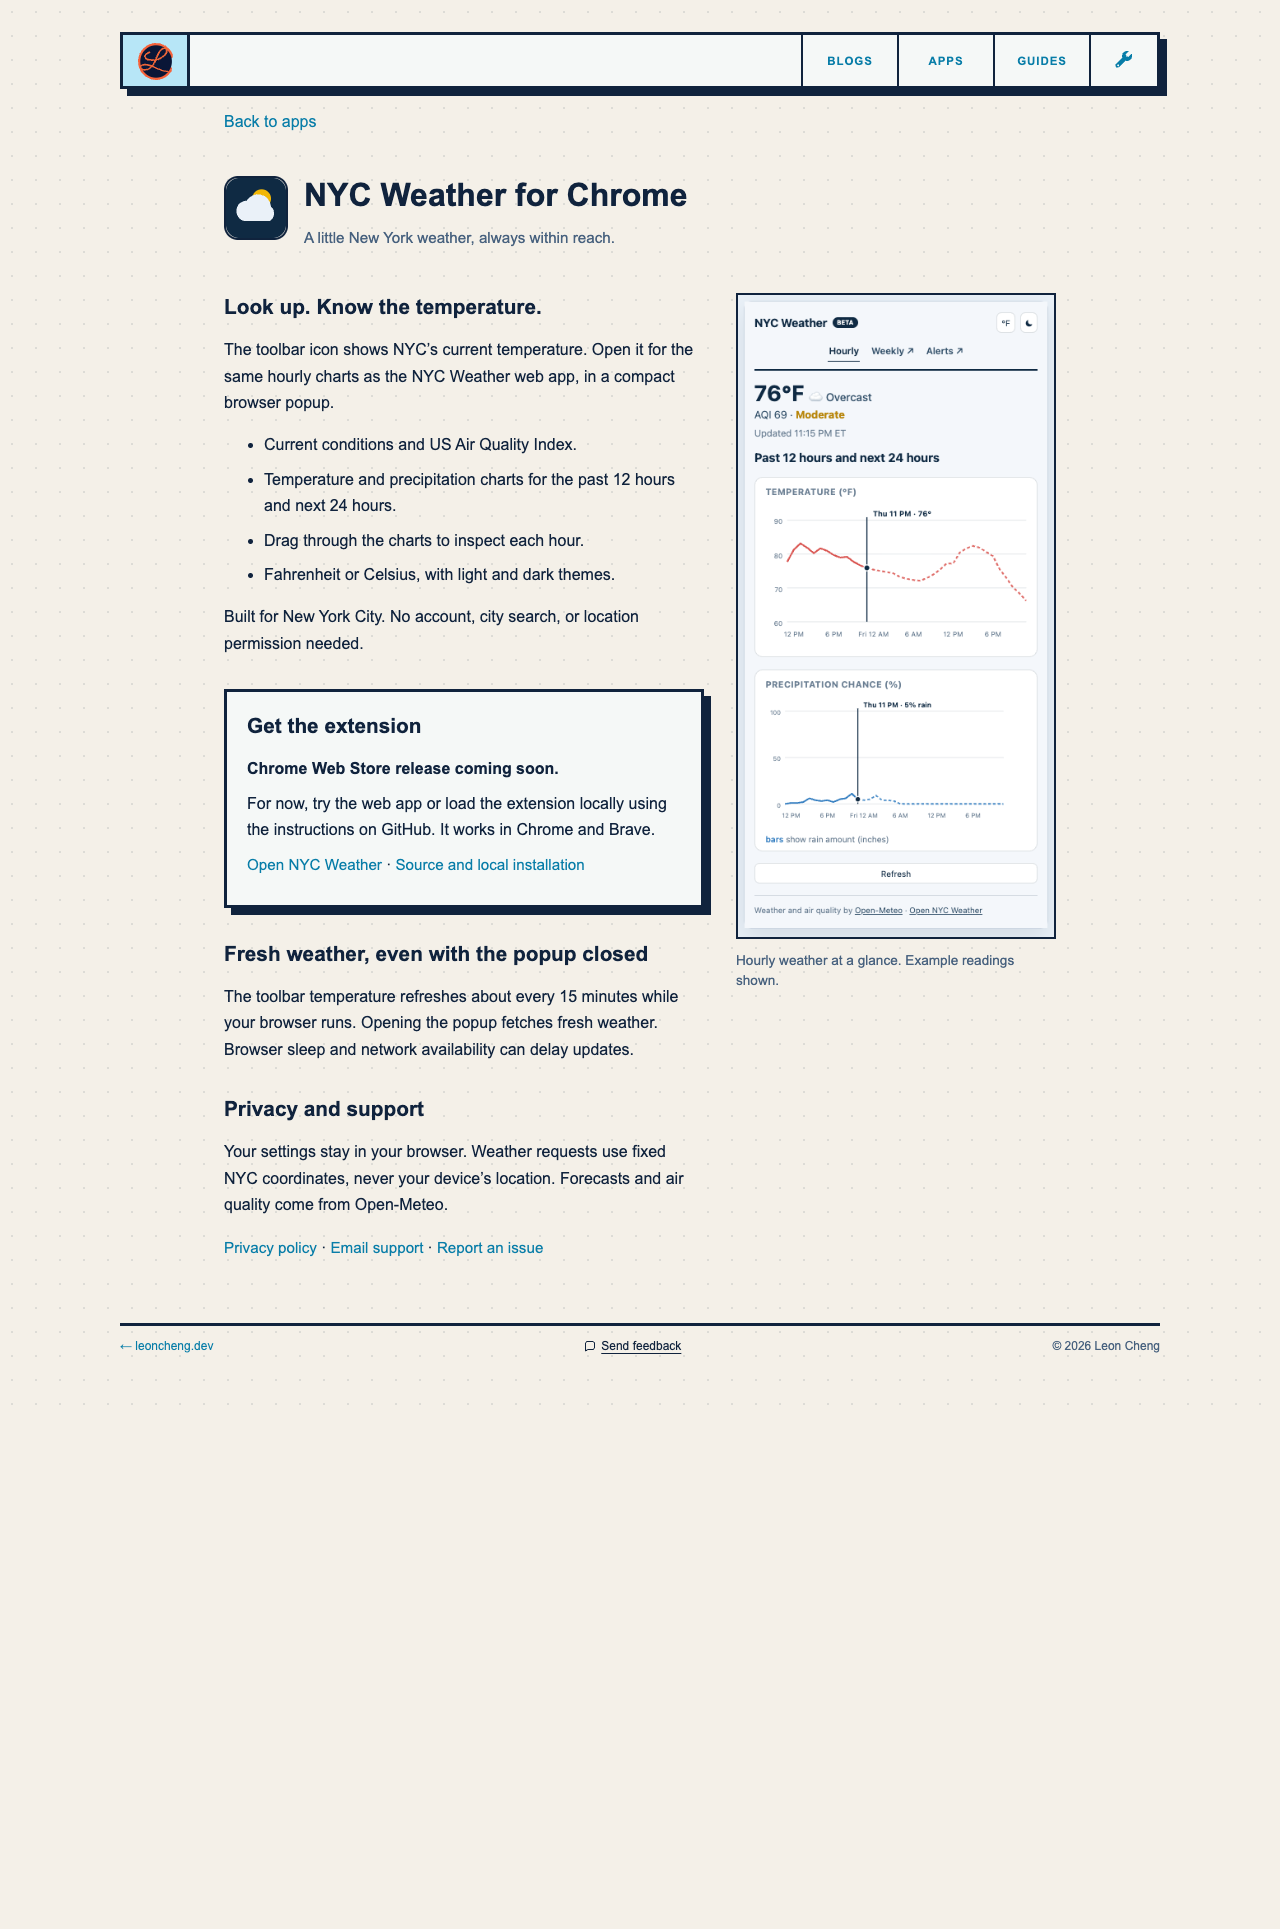
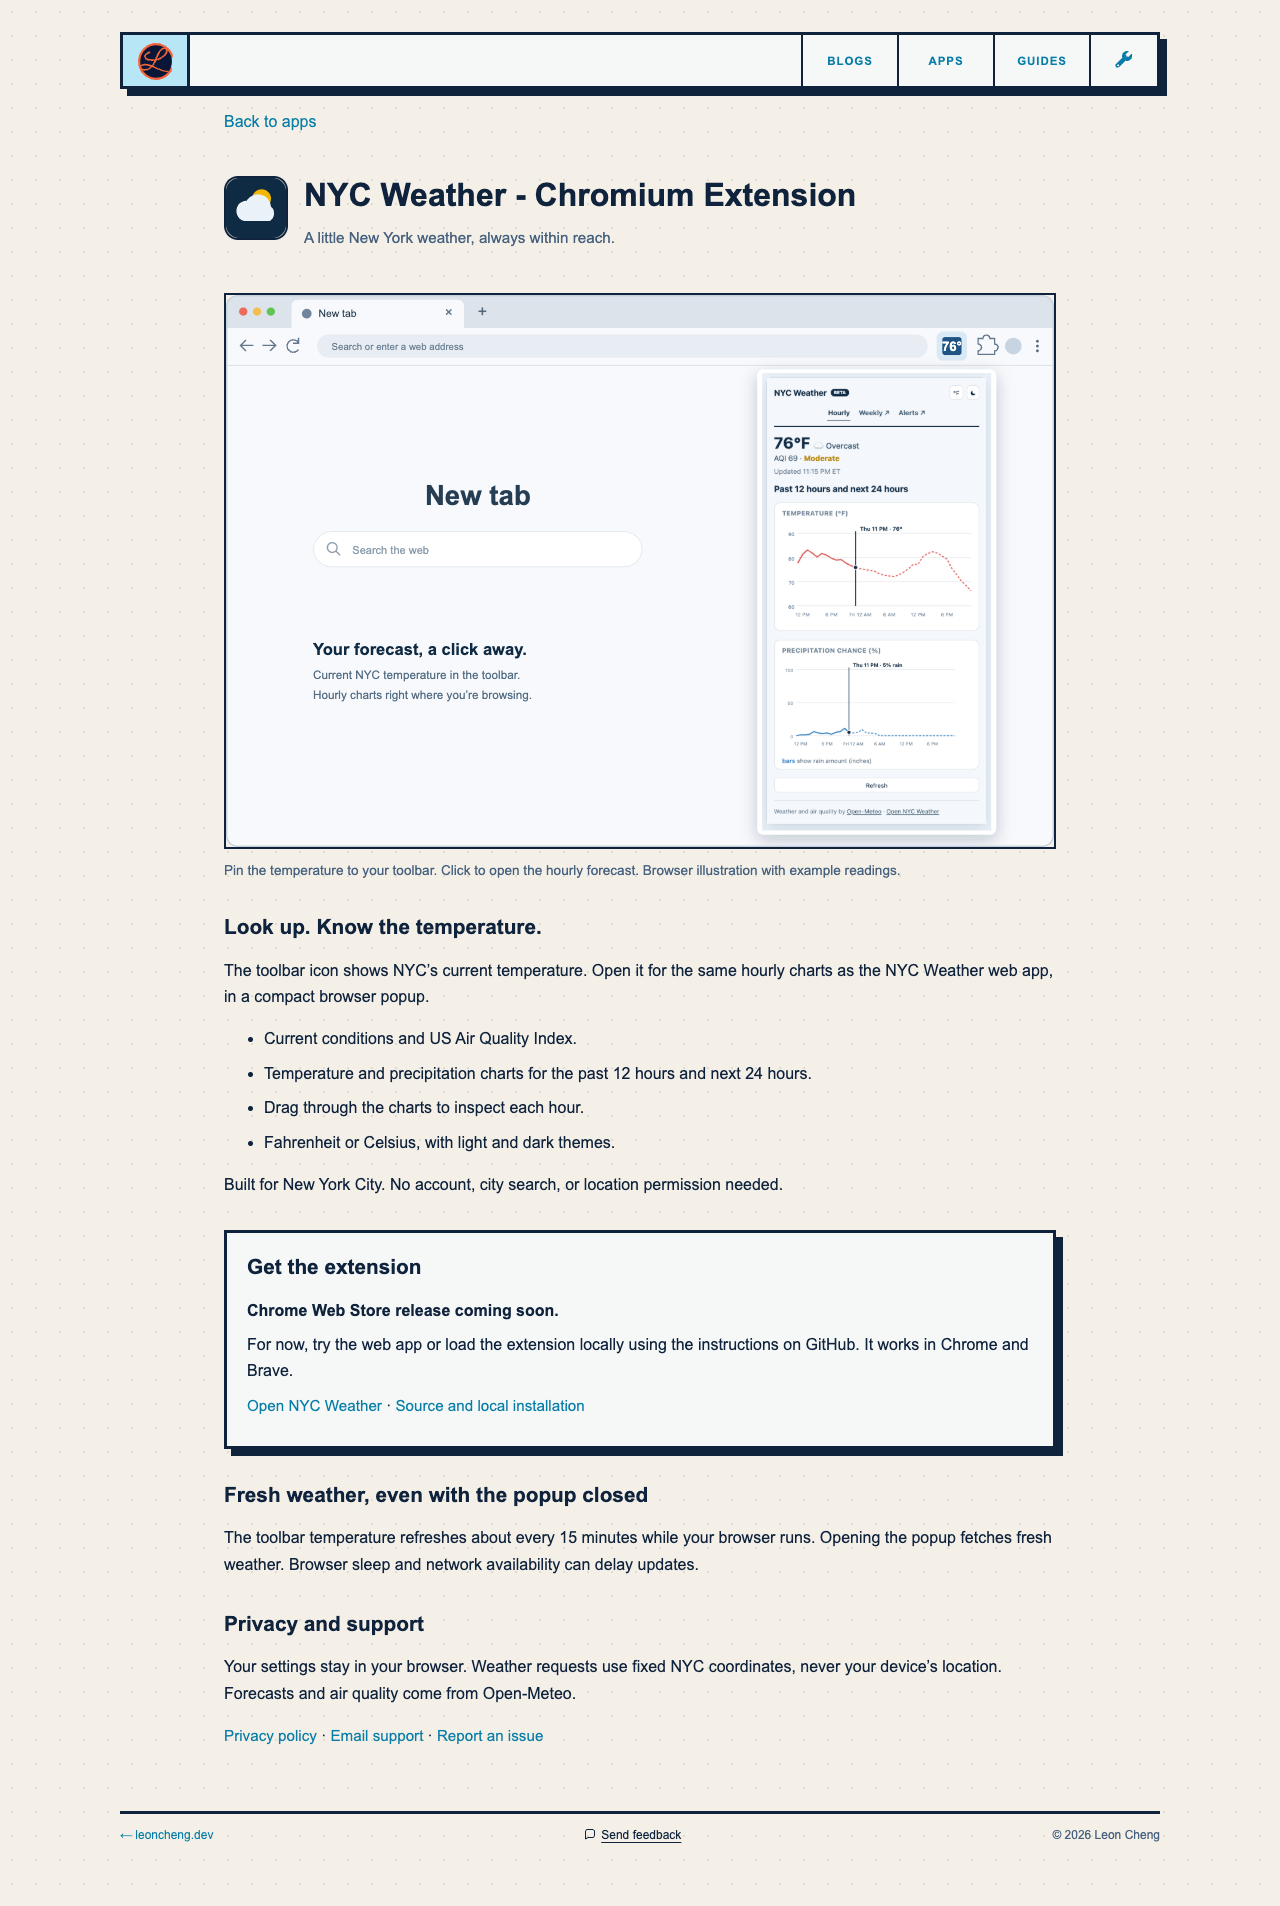
Show Chromium browser preview and remove graduated app badges

diff --git a/src/features/apps/routes/WeatherExtensionRoute.tsx b/src/features/apps/routes/WeatherExtensionRoute.tsx
@@ -16,11 +16,15 @@ export default function WeatherExtensionRoute(): ReactElement {
           <div className={styles.appCardHeader}>
             <img className={styles.appIcon} src={`${import.meta.env.BASE_URL}app-icons/weather.svg`} alt="" width={64} height={64} />
             <div>
-              <h1>NYC Weather for Chrome</h1>
+              <h1>NYC Weather - Chromium Extension</h1>
               <p className={styles.subtitle}>A little New York weather, always within reach.</p>
             </div>
           </div>
         </header>
+        <figure className={styles.extensionPreview}>
+          <img src={`${import.meta.env.BASE_URL}app-previews/nyc-weather-browser.svg`} alt="Browser illustration showing the NYC temperature icon pinned in the toolbar and the hourly weather popup open over a new tab." width={1200} height={800} />
+          <figcaption>Pin the temperature to your toolbar. Click to open the hourly forecast. Browser illustration with example readings.</figcaption>
+        </figure>
         <div className={styles.extensionLayout}>
           <div className={styles.extensionCopy}>
             <section aria-labelledby="extension-overview">
@@ -54,10 +58,7 @@ export default function WeatherExtensionRoute(): ReactElement {
               </p>
             </section>
           </div>
-          <figure className={styles.extensionPreview}>
-            <img src={`${import.meta.env.BASE_URL}app-previews/nyc-weather-extension.png`} alt="NYC Weather popup with current temperature, air quality, and interactive temperature and precipitation charts in the light theme." width={384} height={780} />
-            <figcaption>Hourly weather at a glance. Example readings shown.</figcaption>
-          </figure>
+
         </div>
       </main>
       <SiteFooter />

diff --git a/src/features/apps/routes/AppsIndexRoute.tsx b/src/features/apps/routes/AppsIndexRoute.tsx
@@ -32,7 +32,6 @@ export default function AppsIndexRoute(): ReactElement {
               <div className={styles.appCardHeading}>
                 <h2>
                   <Link to="/sub-wait">Sub-Wait</Link>
-                  <span className={styles.betaBadge}>BETA</span>
                 </h2>
                 <p className={styles.subtitle}>
                   How long until your subway train?
@@ -61,7 +60,6 @@ export default function AppsIndexRoute(): ReactElement {
               <div className={styles.appCardHeading}>
                 <h2>
                   <Link to="/weather">NYC Weather</Link>
-                  <span className={styles.betaBadge}>BETA</span>
                 </h2>
                 <p className={styles.subtitle}>
                   Temperature, rain, and air quality for NYC
@@ -82,7 +80,7 @@ export default function AppsIndexRoute(): ReactElement {
             <div className={styles.appCardHeader}>
               <img className={styles.appIcon} src={weatherIconUrl} alt="" width={64} height={64} decoding="async" />
               <div className={styles.appCardHeading}>
-                <h2><Link to="/apps/nyc-weather-extension">NYC Weather for Chrome</Link></h2>
+                <h2><Link to="/apps/nyc-weather-extension">NYC Weather - Chromium Extension</Link></h2>
                 <p className={styles.subtitle}>NYC temperature, right in your toolbar</p>
               </div>
             </div>

diff --git a/src/features/apps/routes/apps-index-route.test.tsx b/src/features/apps/routes/apps-index-route.test.tsx
@@ -66,10 +66,10 @@ describe('apps index route', () => {
       screen.getByRole('heading', { level: 2, name: 'Workout Lab BETA' })
     ).toBeInTheDocument()
     expect(
-      screen.getByRole('heading', { level: 2, name: 'Sub-Wait BETA' })
+      screen.getByRole('heading', { level: 2, name: 'Sub-Wait', exact: true })
     ).toBeInTheDocument()
     expect(
-      screen.getByRole('heading', { level: 2, name: 'NYC Weather BETA' })
+      screen.getByRole('heading', { level: 2, name: 'NYC Weather', exact: true })
     ).toBeInTheDocument()
   })
 
@@ -89,9 +89,9 @@ describe('apps index route', () => {
     ).map((heading) => heading.textContent)
 
     expect(headings).toEqual([
-      'Sub-WaitBETA',
-      'NYC WeatherBETA',
-      'NYC Weather for Chrome',
+      'Sub-Wait',
+      'NYC Weather',
+      'NYC Weather - Chromium Extension',
       "Georgie's Game Nights",
       'Whoops Hoops',
       'House Party Photo Hunt',

diff --git a/src/components/route-metadata/RouteMetadata.tsx b/src/components/route-metadata/RouteMetadata.tsx
@@ -11,7 +11,7 @@ const SITE_TITLE = "Leon's Website"
 const STATIC_TITLES: Record<string, string> = {
   '/': SITE_TITLE,
   '/apps': `Apps | ${SITE_TITLE}`,
-  '/apps/nyc-weather-extension': `NYC Weather Chrome Extension | ${SITE_TITLE}`,
+  '/apps/nyc-weather-extension': `NYC Weather - Chromium Extension | ${SITE_TITLE}`,
   '/apps/whoops-hoops/privacy': 'Privacy Policy | Whoops Hoops',
   '/apps/whoops-hoops/support': 'Support | Whoops Hoops',
   '/blog': `Blog | ${SITE_TITLE}`,

diff --git a/src/components/route-metadata/RouteMetadata.test.tsx b/src/components/route-metadata/RouteMetadata.test.tsx
@@ -41,7 +41,7 @@ describe('getRouteTitle', () => {
       "opencode personal config | Guides | Leon's Website",
     ],
     ['/apps', "Apps | Leon's Website"],
-    ['/apps/nyc-weather-extension', "NYC Weather Chrome Extension | Leon's Website"],
+    ['/apps/nyc-weather-extension', "NYC Weather - Chromium Extension | Leon's Website"],
     ['/apps/whoops-hoops/privacy', 'Privacy Policy | Whoops Hoops'],
     ['/repo/alpha-projs', "Alpha Projects | Repo | Leon's Website"],
     [

diff --git a/src/features/apps/apps.module.css b/src/features/apps/apps.module.css
@@ -112,7 +112,7 @@
 
 .extensionLayout {
   display: grid;
-  grid-template-columns: minmax(0, 1fr) minmax(0, 20rem);
+  grid-template-columns: minmax(0, 1fr);
   gap: 2rem;
   align-items: start;
 }
@@ -137,7 +137,7 @@
 }
 
 .extensionPreview {
-  margin: 0;
+  margin: 0 0 2rem;
 }
 
 .extensionPreview img {
@@ -160,7 +160,7 @@
   }
 
   .extensionPreview {
-    width: min(100%, 24rem);
-    margin: 0 auto;
+    width: 100%;
+    margin: 0 0 2rem;
   }
 }
